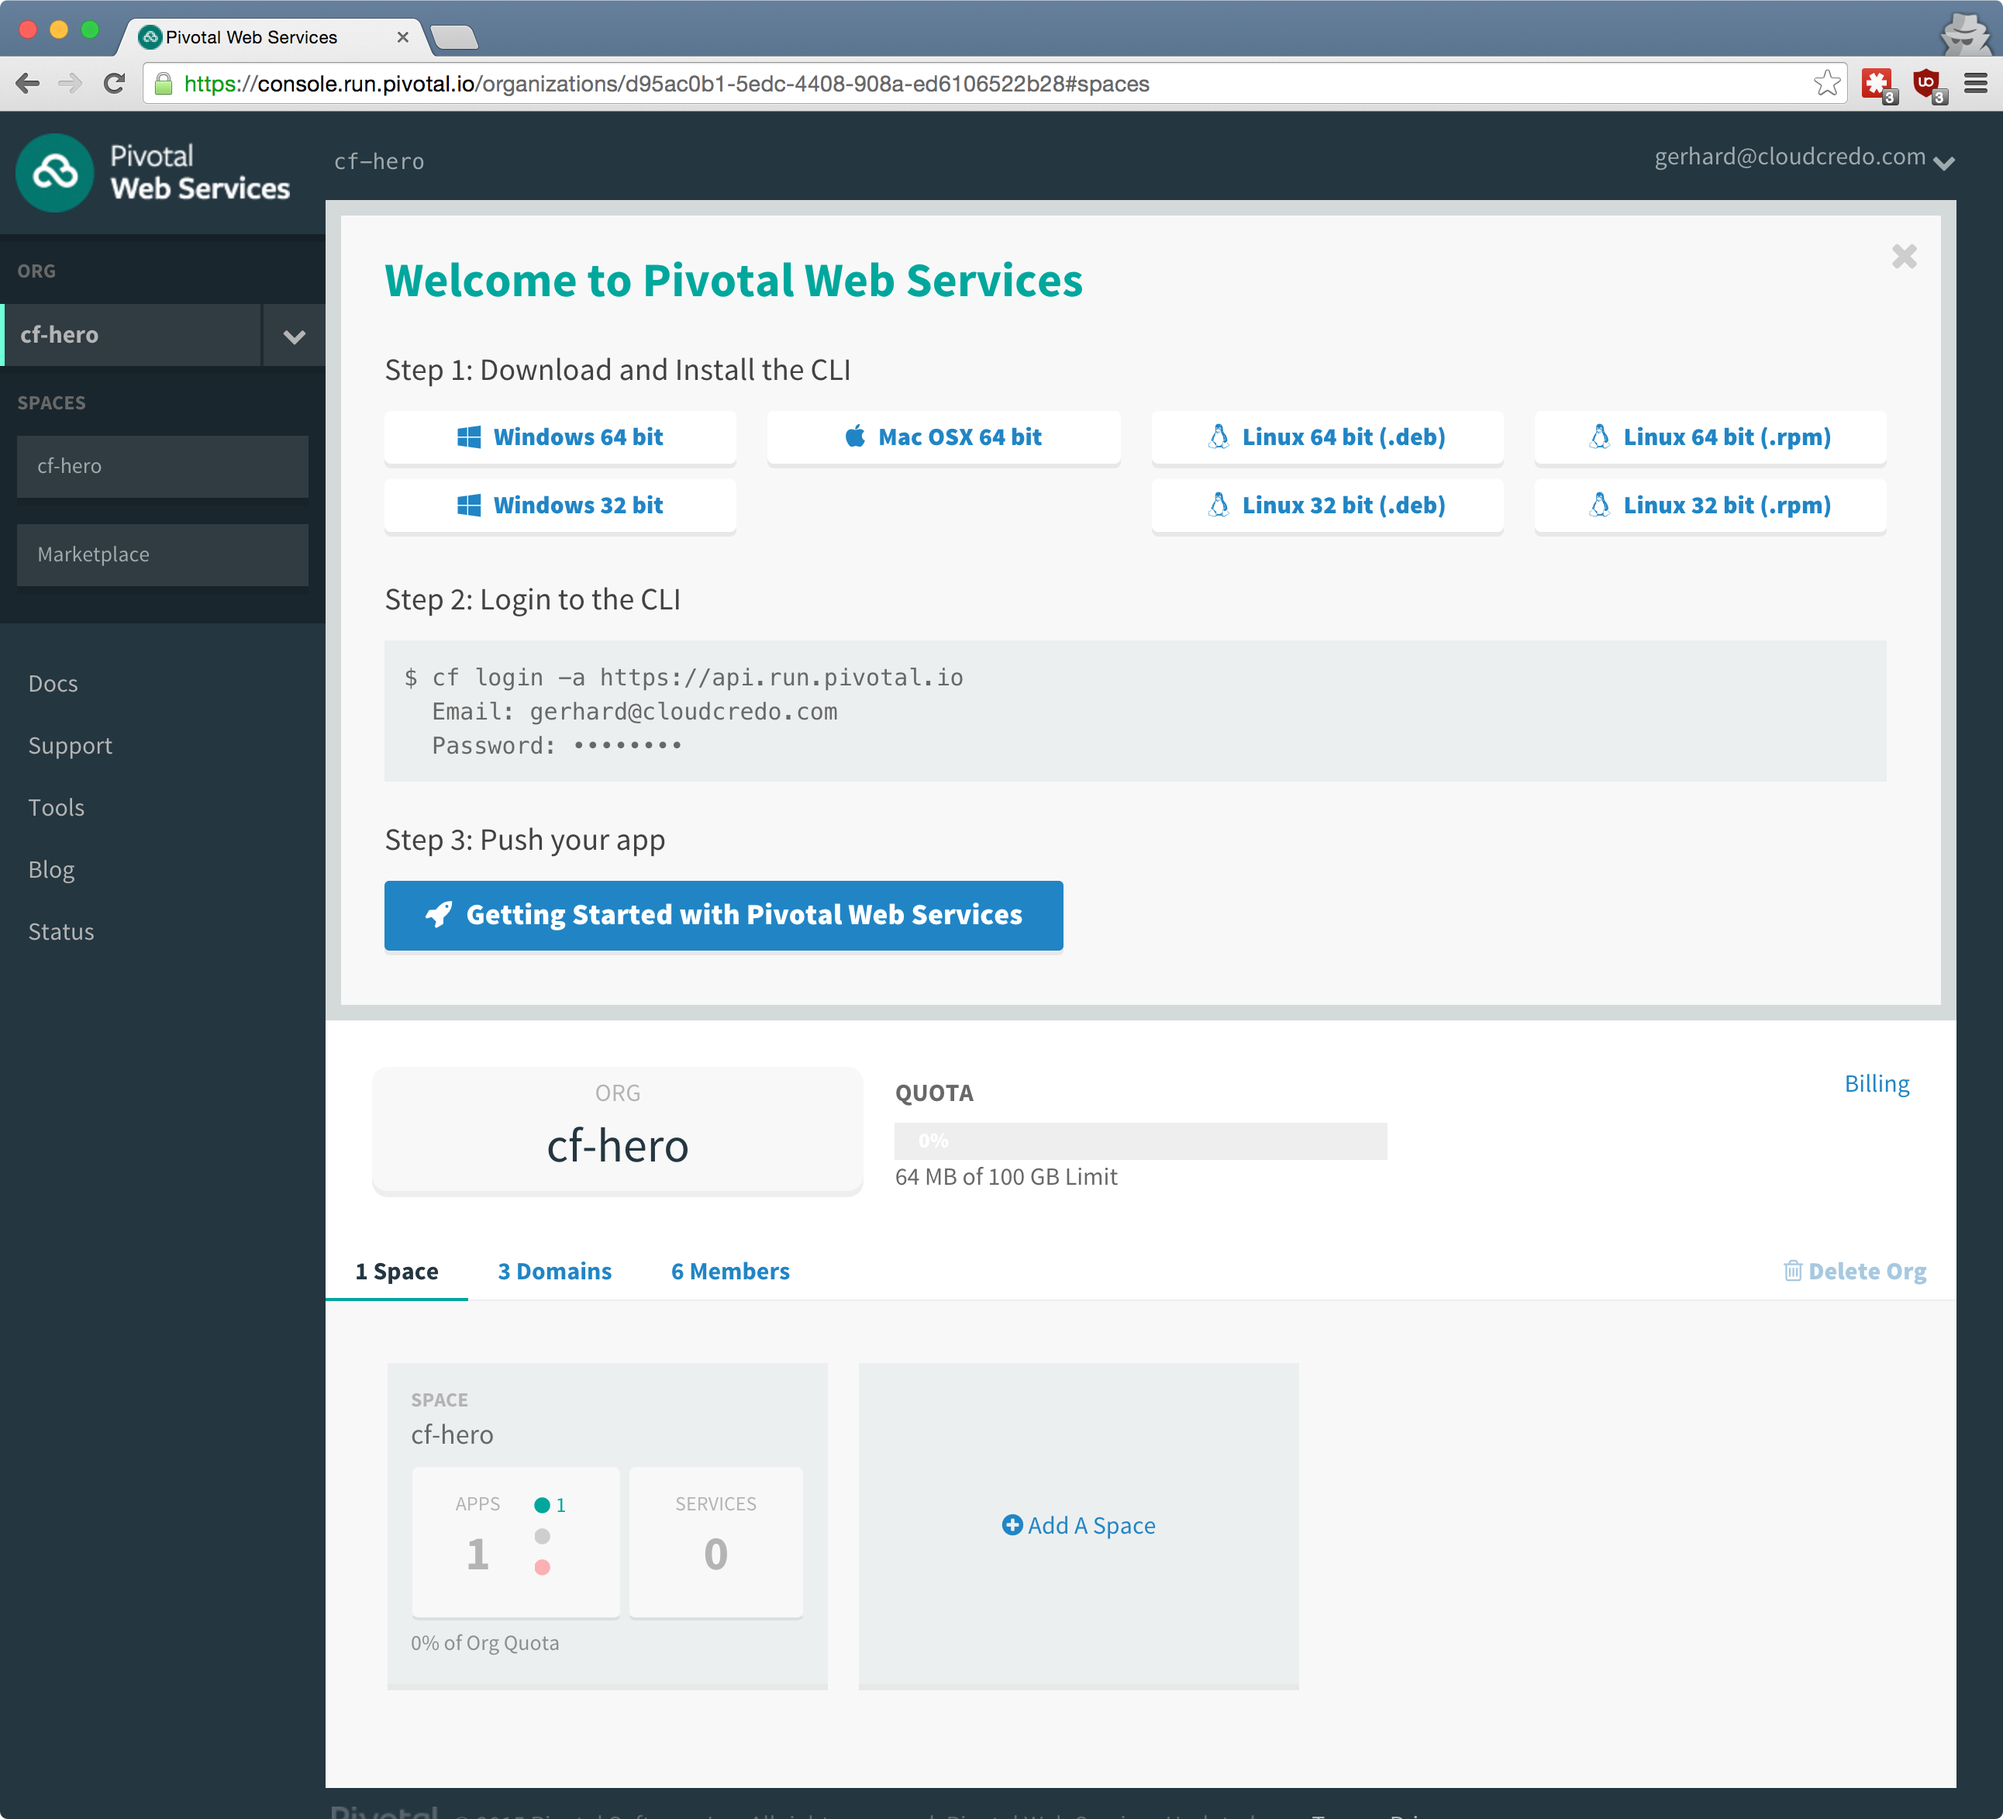
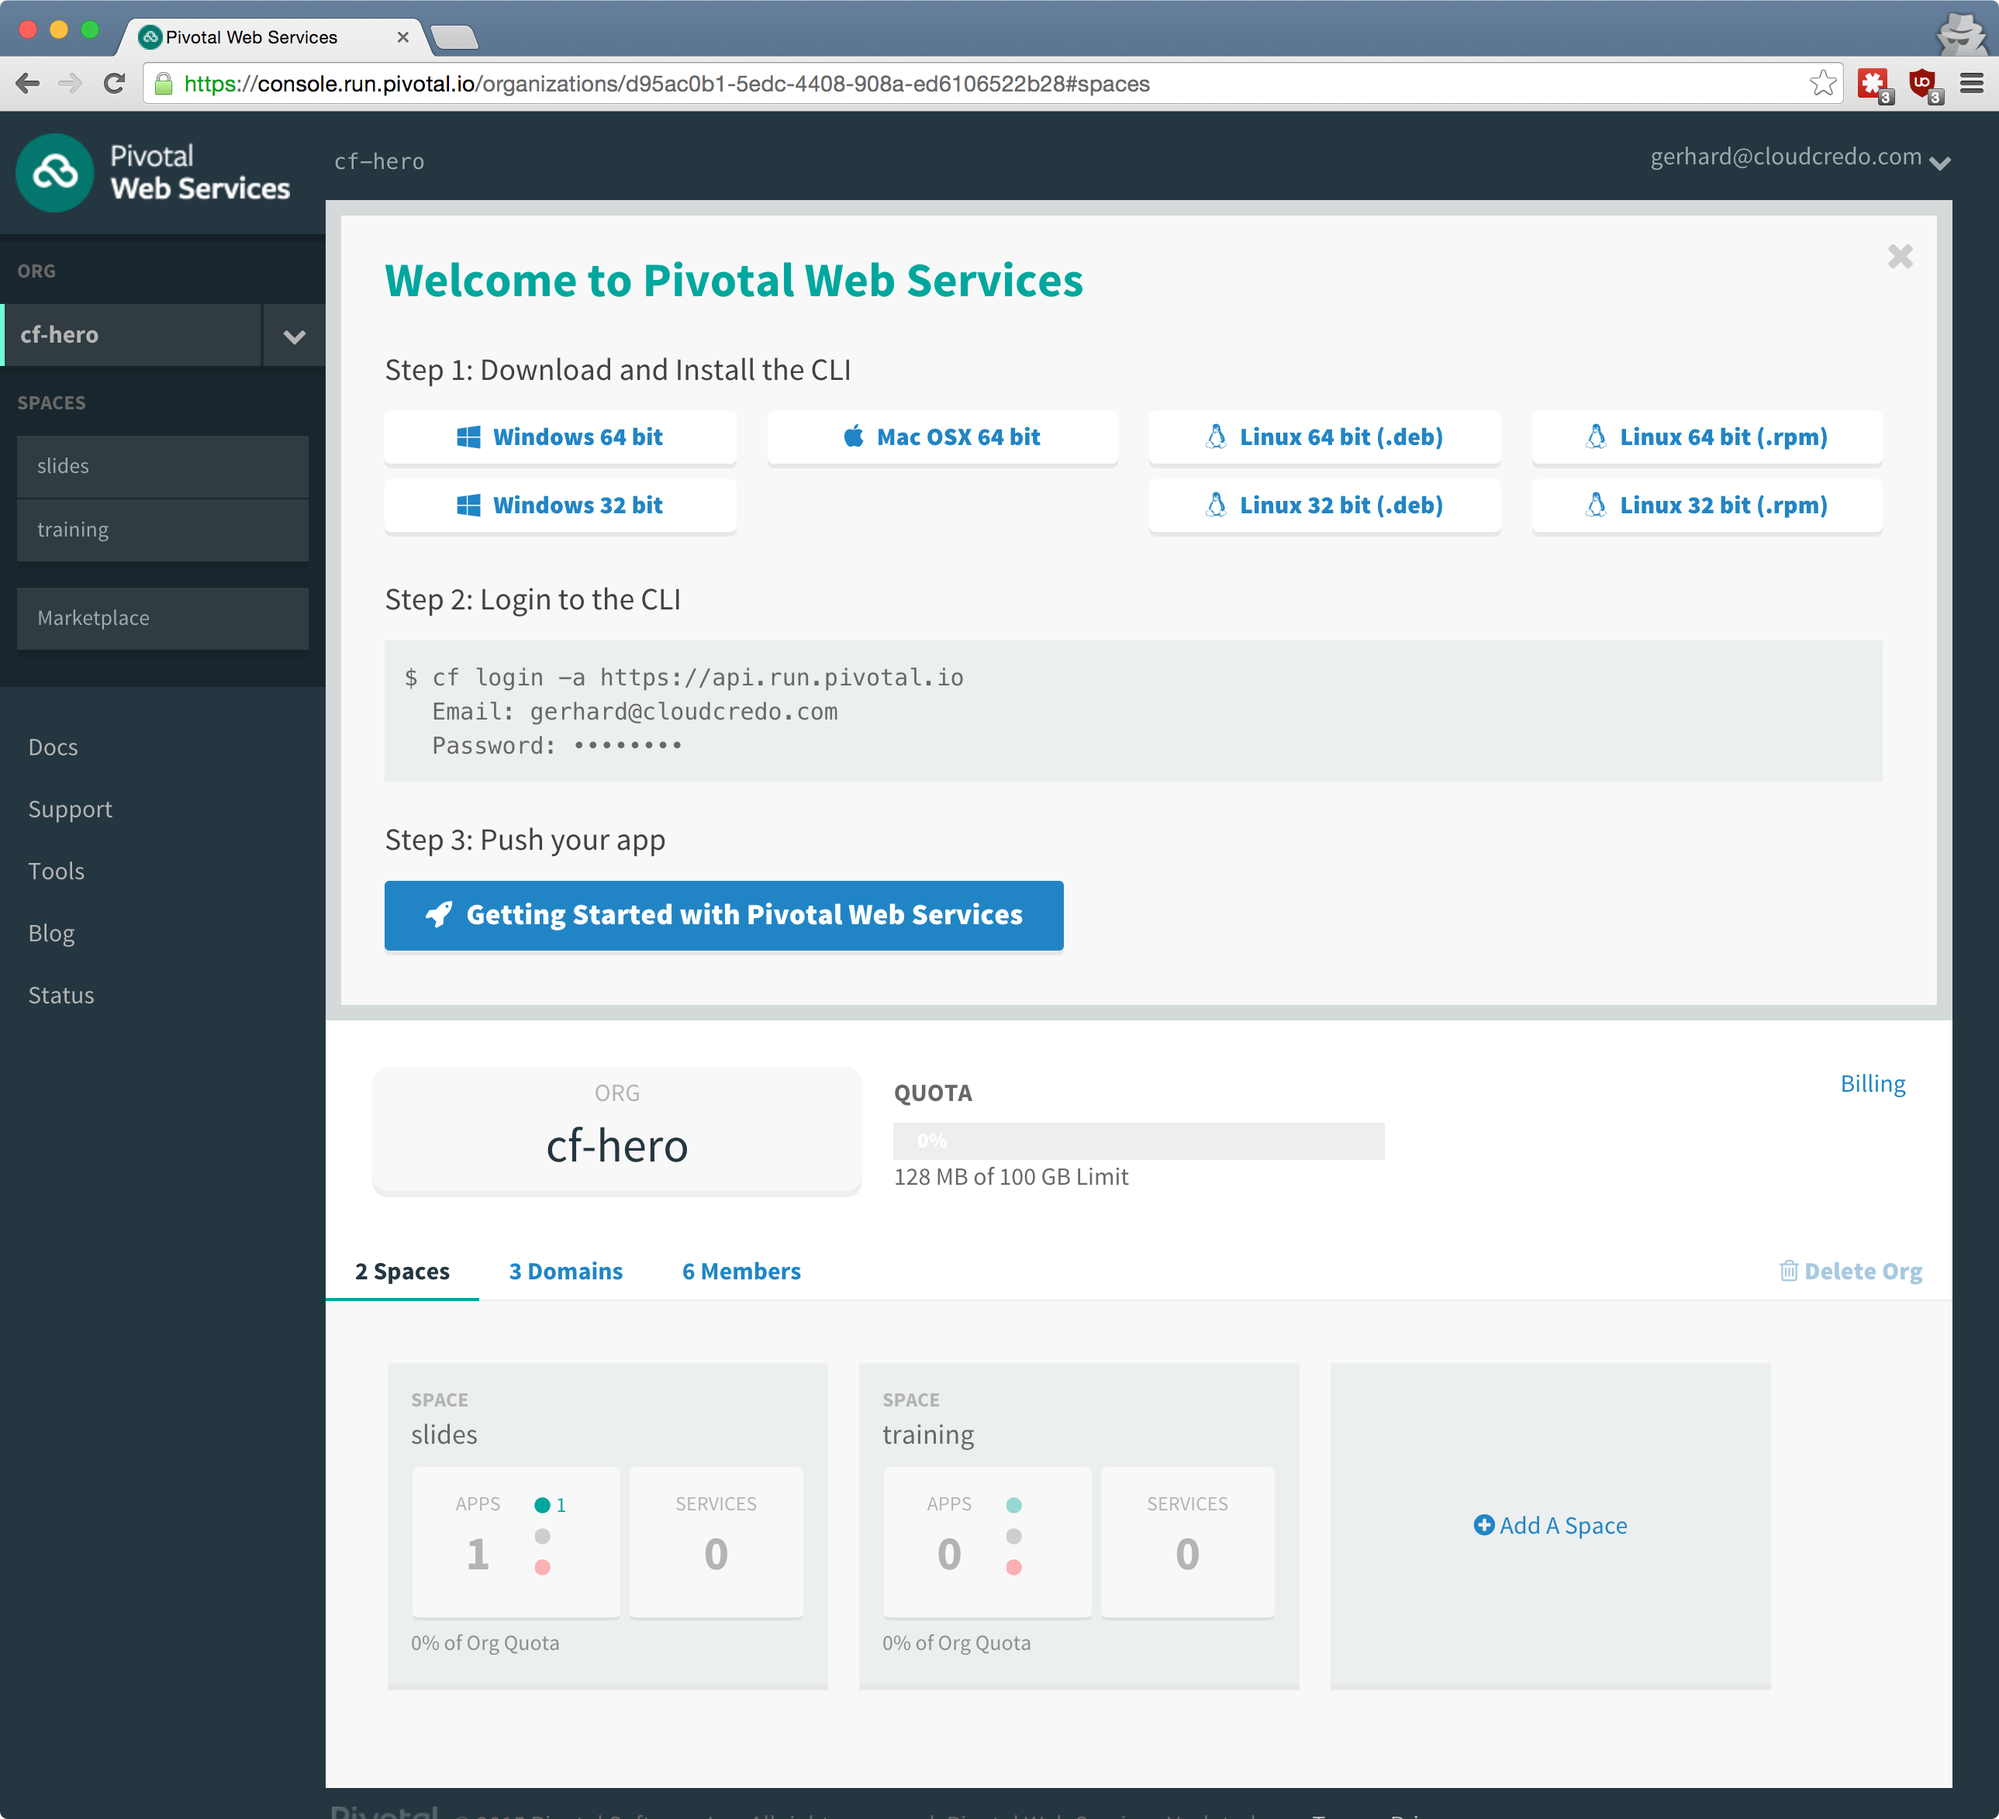
Improve highlighting, create training & slides spaces

diff --git a/02-interact-with-cf/slides.md b/02-interact-with-cf/slides.md
@@ -17,13 +17,11 @@ So that I can deploy apps into my CF account
 
 ---
 
-## [How do I interact with](#/2) CF[?](#/2)
+## [How do I](#/2) interact with CF[?](#/2)
 
-### From Terminal, with CF CLI 
+From Command Prompt / Terminal
 
-  * Use installer for your OS
-  * 32/64 bit support
-  * A single binary
+With CF CLI utility
 
 Note:
   The CF CLI utility communicates with the Cloud Controller, a CF component, that exposes a RESTful API
@@ -34,7 +32,7 @@ Note:
 
 ---
 
-## [Install the](#/3) CF CLI
+## [How do I](#/3) install the CF CLI[?](#/3)
 
 [github.com/cloudfoundry/cli](https://github.com/cloudfoundry/cli#downloads)
 
@@ -50,7 +48,7 @@ Note:
 
 ---
 
-## [Did](#/4) CF CLI [install correctly?](#/4)
+## [Did](#/4) CF CLI install [correctly?](#/4)
 
 ```bash
 $ cf
@@ -77,7 +75,7 @@ Note:
 
 ---
 
-## [How do I log into](#/5) CF[?](#/5)
+## [How do I](#/5) log into CF[?](#/5)
 
 ```bash
 $ cf login -a api.run.pivotal.io -u YOUR-EMAIL-ADDRESS
@@ -112,11 +110,12 @@ Every application and service is scoped to a space
 ```bash
 $ cf spaces
 
-development
+slides
+training
 ```
 
 ```bash
-$ cf space development
+$ cf space training
 
 development
     Org:               cf-hero
@@ -160,7 +159,7 @@ $ cf org cf-hero
 cf-hero:
     domains:        
     quota:          100GB:50free (102400M memory limit, Unlimited ..
-    spaces:         cf-hero
+    spaces:         slides, training
     space quotas:
 ```
 
@@ -191,7 +190,7 @@ paid           10G         unlimited      1000     unlimited
 
               . Org                   . cf-hero
               |                       |
-              \-- Space               \-- cf-hero
+              \-- Space               \-- training
                  |                       |
                  |-- App 1               |-- web-app
                  \-- App 2               \-- worker-app
@@ -208,7 +207,7 @@ $ cf target
 API endpoint:   https://api.run.pivotal.io (API version: 2.36.0)
 User:           gerhard@cloudcredo.com
 Org:            cf-hero
-Space:          cf-hero
+Space:          training
 ```
 
 ---
@@ -242,7 +241,7 @@ So that I can deploy apps into my CF account
 
 # CF SUPERHERO
 
-  * Add the person next to you to your PWS org &amp; space
+  * Add the person next to you to your PWS space
   * Create an account on [IBM Bluemix](https://console.ng.bluemix.net/registration/)
   * Use [Targets cf cli plugin](https://github.com/guidowb/cf-targets-plugin) with PWS &amp; Bluemix
   * Submit a localisation pull request to [cf cli](https://github.com/cloudfoundry/cli/blob/master/cf/i18n/README-i18n.md)
